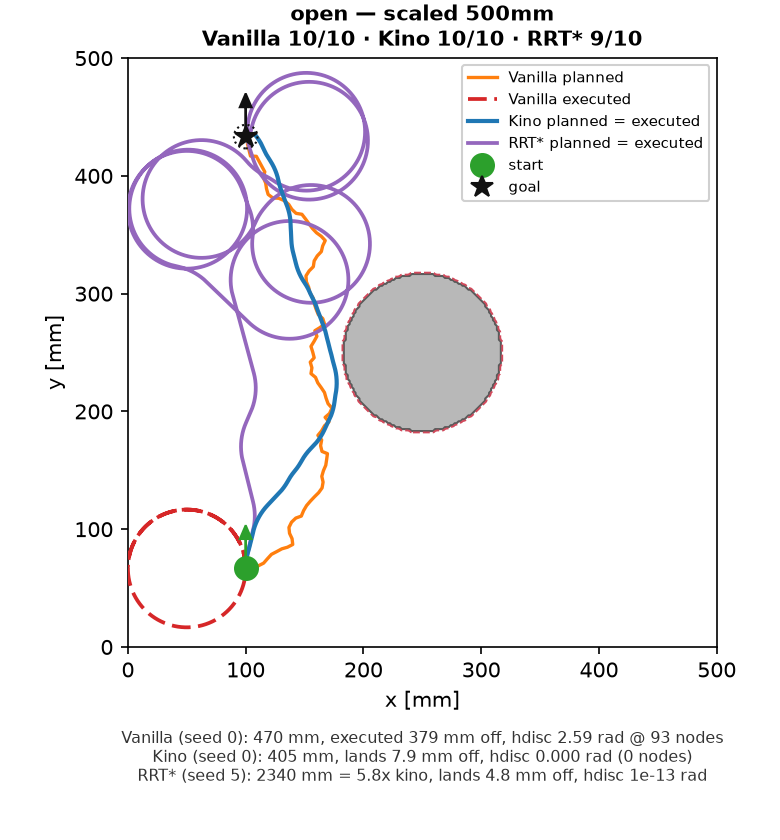
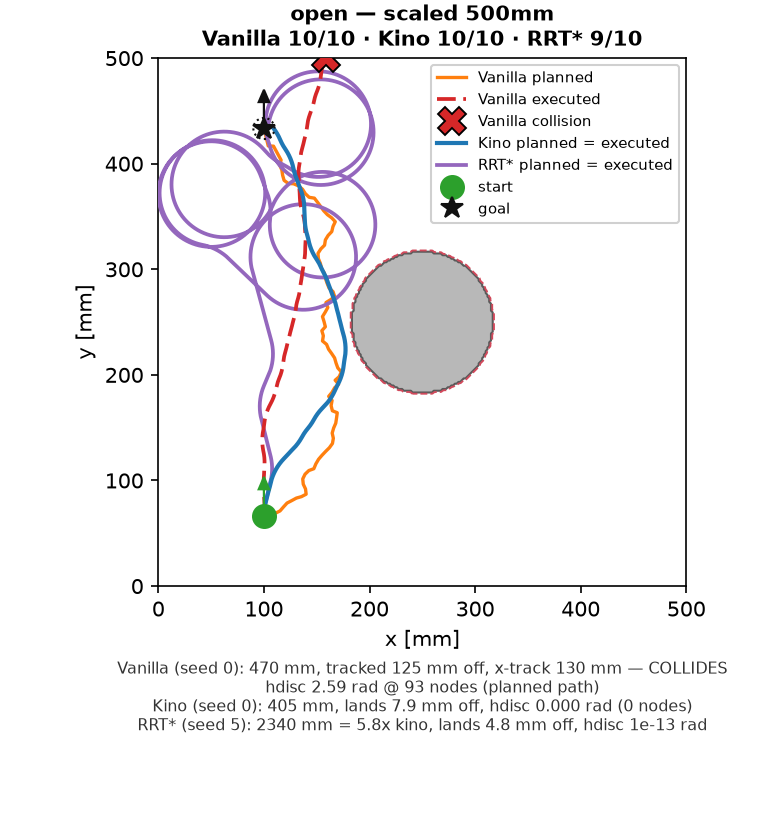
Regenerate all eight benchmark figures + report vanilla tracker metrics
Figure scripts: VanillaRRT's dashed "executed" curve is now the open-loop
TRACKED trajectory (its path followed with feasible curved controls), not
the raw-controls radius-1/kappa circle. The first colliding state is marked
with a bold X and the post-collision tail drawn solid, so tracked_collides
(the headline) is readable at a glance. Kino/RRT* curves are untouched.
Annotations updated to tracked endpoint / max cross-track / collides;
subtitles split across lines to fit. All 8 figures regenerated after the
full benchmark re-run.

Analysis scripts: report the three vanilla tracker metrics in a dedicated
table (endpoint_error_mm is now empty for vanilla); _mean_std drops None so
the empty column no longer crashes the aggregate.

diff --git a/scripts/plot_benchmark_figures.py b/scripts/plot_benchmark_figures.py
@@ -47,6 +47,7 @@ from needlesim.benchmark.harness import (  # noqa: E402
     make_config,
 )
 from needlesim.benchmark.scenarios import SCENARIOS, build_env  # noqa: E402
+from needlesim.benchmark.vanilla_tracker import track_path  # noqa: E402
 from needlesim.models.unicycle_needle import (  # noqa: E402
     NeedleParams,
     State,
@@ -128,10 +129,29 @@ def planned_polyline(result):
 
 def executed_trace(result, scenario, cfg, params):
     """Roll the returned controls through the real model from the start -- where
-    the needle actually goes if you execute this plan."""
+    the needle actually goes if you execute this plan. Used for Kino/RRTStar,
+    whose stored controls ARE model-generated (planned == executed)."""
     steps = _expand_controls(result.controls, cfg.n_steps_per_extend)
     trace = rollout(scenario.start, steps, cfg.step_dt, params)
     return [(s.x, s.y) for s in trace]
+
+
+def vanilla_tracked(result, scenario, cfg, params, env):
+    """VanillaRRT's executed curve is the OPEN-LOOP TRACKED trajectory -- its
+    path read as a reference polyline and followed with feasible curved
+    controls (see benchmark/vanilla_tracker.py) -- NOT its raw stored controls,
+    which just drive a radius-1/kappa circle. Returns the TrackedRun so the
+    figure can also mark where it strays into an obstacle."""
+    return track_path(
+        result.path,
+        scenario.start,
+        scenario.goal,
+        cfg.edge_velocity,
+        cfg.step_dt,
+        env,
+        params,
+        cfg.margin,
+    )
 
 
 # ---------------------------------------------------------------------------
@@ -179,6 +199,39 @@ def _draw_pose(ax, pose: State, color, label, marker):
         length_includes_head=True,
         zorder=6,
     )
+
+
+def _draw_vanilla_executed(ax, tracked):
+    """Draw the tracked (executed) trajectory and, if it collides, mark the
+    first colliding state with a bold X and redraw the post-collision tail as a
+    solid line -- so `tracked_collides` (the headline) is readable at a glance."""
+    ex = [s.x for s in tracked.trace]
+    ey = [s.y for s in tracked.trace]
+    ax.plot(
+        ex,
+        ey,
+        color=C_VAN_EXEC,
+        linewidth=1.8,
+        linestyle=(0, (5, 2)),
+        label="Vanilla executed",
+        zorder=5,
+    )
+    if tracked.collides:
+        ci = tracked.first_collision_index
+        # Post-collision tail solid: the needle is already inside tissue here.
+        ax.plot(ex[ci:], ey[ci:], color=C_VAN_EXEC, linewidth=1.8, zorder=5)
+        ax.plot(
+            ex[ci],
+            ey[ci],
+            marker="X",
+            color=C_VAN_EXEC,
+            markersize=13,
+            markeredgecolor="black",
+            markeredgewidth=0.9,
+            linestyle="none",
+            label="Vanilla collision",
+            zorder=7,
+        )
 
 
 def _draw_tree(ax, result):
@@ -242,23 +295,17 @@ def make_figure(scen_name, grouped):
     v_result, v_cfg, v_params = run(VanillaRRT, scenario, v_seed)
     px, py = zip(*planned_polyline(v_result))
     ax.plot(px, py, color=C_VAN_PLAN, linewidth=1.6, label="Vanilla planned", zorder=4)
-    ex, ey = zip(*executed_trace(v_result, scenario, v_cfg, v_params))
-    ax.plot(
-        ex,
-        ey,
-        color=C_VAN_EXEC,
-        linewidth=1.8,
-        linestyle=(0, (5, 2)),
-        label="Vanilla executed",
-        zorder=5,
-    )
-    v_ep = endpoint_error_mm(v_result, scenario.start, scenario.goal, v_cfg, v_params)
+    v_tracked = vanilla_tracked(v_result, scenario, v_cfg, v_params, env)
+    _draw_vanilla_executed(ax, v_tracked)
     v_hd, _, v_hn = heading_discontinuity(v_result, v_cfg, v_params)
 
     seeds_note = f"seeds: vanilla={v_seed}"
+    collide_note = "COLLIDES" if v_tracked.collides else "no collision"
     subtitle_parts = [
-        f"Vanilla (seed {v_seed}): executed lands {v_ep:.0f} mm off; "
-        f"heading disc max {v_hd:.2f} rad at {v_hn} nodes"
+        f"Vanilla (seed {v_seed}): tracked lands "
+        f"{v_tracked.endpoint_error_mm:.0f} mm off, max cross-track "
+        f"{v_tracked.max_crosstrack_mm:.0f} mm — {collide_note}",
+        f"    heading disc max {v_hd:.2f} rad at {v_hn} nodes (planned path)",
     ]
 
     # --- Kinodynamic: one smooth curve (planned == executed), or a failed tree
@@ -309,7 +356,7 @@ def make_figure(scen_name, grouped):
     # moves, to avoid occluding the goal where it sits top-right (cluttered).
     legend_loc = "upper left" if scen_name == "cluttered" else "upper right"
     _finish(ax, scenario, title, "\n".join(subtitle_parts), legend_loc=legend_loc)
-    fig.tight_layout(rect=(0, 0.04, 1, 1))
+    fig.tight_layout(rect=(0, 0.08, 1, 1))
     out = OUT_DIR / f"benchmark_{scen_name}.png"
     fig.savefig(out, dpi=150)
     plt.close(fig)

diff --git a/scripts/analyze_benchmark.py b/scripts/analyze_benchmark.py
@@ -30,7 +30,10 @@ PLANNER_ORDER = ["VanillaRRT", "KinodynamicRRT"]
 
 
 def _mean_std(values):
-    """(mean, std) over a list; (nan, nan) if empty, std=0 for a single value."""
+    """(mean, std) over a list; (nan, nan) if empty, std=0 for a single value.
+    None entries are dropped (e.g. VanillaRRT's now-empty endpoint_error_mm, or
+    the tracked_* columns on non-vanilla rows)."""
+    values = [v for v in values if v is not None]
     if not values:
         return math.nan, math.nan
     n = len(values)
@@ -98,6 +101,64 @@ def report_hand_designed(rows):
             )
 
 
+def _collide_rate(runs):
+    """Fraction of successful VanillaRRT runs whose tracked trajectory collides,
+    as 'k/n'. Empty runs -> '--'."""
+    ok = [r for r in runs if _success(r)]
+    if not ok:
+        return "--"
+    n_col = sum(1 for r in ok if r["tracked_collides"] == "True")
+    return f"{n_col}/{len(ok)}"
+
+
+def report_vanilla_tracked(rows):
+    """VanillaRRT's execution quality under the open-loop tracker (its
+    endpoint_error_mm is intentionally empty -- see vanilla_tracker.py). The
+    three tracker metrics: where the tracked path lands, how far it strays from
+    the planned polyline, and -- the headline -- how often it collides."""
+    print()
+    print("=" * 78)
+    print("VANILLA TRACKED EXECUTION (open-loop segment following; vanilla only)")
+    print("=" * 78)
+    hand = [
+        r for r in rows if r["scenario_kind"] == "hand" and r["planner"] == "VanillaRRT"
+    ]
+    rand = [
+        r
+        for r in rows
+        if r["scenario_kind"] == "random" and r["planner"] == "VanillaRRT"
+    ]
+    grouped = defaultdict(list)
+    for r in hand:
+        grouped[r["scenario_name"]].append(r)
+
+    header = (
+        f"{'scenario':<22} {'succ':>6} {'tracked_endpt_mm':>18} "
+        f"{'max_xtrack_mm':>16} {'collides':>10}"
+    )
+    print("\n" + header)
+    print("-" * len(header))
+    for scen in HAND_DESIGNED:
+        runs = grouped.get(scen.name, [])
+        ok = [r for r in runs if _success(r)]
+        rate = f"{len(ok)}/{len(runs)}"
+        ep = _mean_std([_to_float(r, "tracked_endpoint_error_mm") for r in ok])
+        ct = _mean_std([_to_float(r, "tracked_max_crosstrack_mm") for r in ok])
+        print(
+            f"{scen.name:<22} {rate:>6} {_fnum(*ep, width=14, prec=1)} "
+            f"{_fnum(*ct, width=12, prec=1)} {_collide_rate(runs):>10}"
+        )
+
+    ok = [r for r in rand if _success(r)]
+    ep = _mean_std([_to_float(r, "tracked_endpoint_error_mm") for r in ok])
+    ct = _mean_std([_to_float(r, "tracked_max_crosstrack_mm") for r in ok])
+    print(
+        f"{'random (aggregate)':<22} {f'{len(ok)}/{len(rand)}':>6} "
+        f"{_fnum(*ep, width=14, prec=1)} {_fnum(*ct, width=12, prec=1)} "
+        f"{_collide_rate(rand):>10}"
+    )
+
+
 def report_random(rows):
     print()
     print("=" * 78)
@@ -160,8 +221,13 @@ def main():
     rows = load_rows(csv_path)
     print(f"Read {len(rows)} raw records from {csv_path}\n")
     report_hand_designed(rows)
+    report_vanilla_tracked(rows)
     report_random(rows)
     print("\n(cost/time/iters/endpt/hdisc are mean +- std over SUCCESSFUL runs)")
+    print(
+        "(endpt_mm is empty for VanillaRRT by design -- see the VANILLA TRACKED "
+        "EXECUTION table for its three tracker metrics)"
+    )
 
 
 if __name__ == "__main__":

diff --git a/scripts/plot_scaled_benchmark_figures.py b/scripts/plot_scaled_benchmark_figures.py
@@ -57,13 +57,14 @@ from plot_benchmark_figures import (  # noqa: E402
     C_OBSTACLE,
     C_START,
     C_SURFACE,
-    C_VAN_EXEC,
     C_VAN_PLAN,
     _by_scen_planner,
+    _draw_vanilla_executed,
     executed_trace,
     median_seed,
     planned_polyline,
     success_rate,
+    vanilla_tracked,
 )
 
 from needlesim.benchmark.harness import (  # noqa: E402
@@ -254,24 +255,20 @@ def make_figure(scen_name, grouped):
     v_result, v_cfg, v_params = run_rrt(VanillaRRT, scenario, v_seed)
     px, py = zip(*planned_polyline(v_result))
     ax.plot(px, py, color=C_VAN_PLAN, linewidth=1.6, label="Vanilla planned", zorder=4)
-    ex, ey = zip(*executed_trace(v_result, scenario, v_cfg, v_params))
-    ax.plot(
-        ex,
-        ey,
-        color=C_VAN_EXEC,
-        linewidth=1.8,
-        linestyle=(0, (5, 2)),
-        label="Vanilla executed",
-        zorder=5,
-    )
-    v_ep = endpoint_error_mm(v_result, scenario.start, scenario.goal, v_cfg, v_params)
+    # Executed curve = open-loop TRACKED trajectory (vanilla_tracker.py), the
+    # same treatment as the primary figures -- not the raw-controls circle.
+    v_tracked = vanilla_tracked(v_result, scenario, v_cfg, v_params, env)
+    _draw_vanilla_executed(ax, v_tracked)
     v_cost = path_cost_mm(v_result, v_cfg)
     v_hd, _, v_hn = heading_discontinuity(v_result, v_cfg, v_params)
     seeds_note = f"seeds: vanilla={v_seed}"
+    collide_note = "COLLIDES" if v_tracked.collides else "no collision"
     subtitle_parts.append(
-        f"Vanilla (seed {v_seed}): {v_cost:.0f} mm, executed {v_ep:.0f} mm off, "
-        f"hdisc {v_hd:.2f} rad @ {v_hn} nodes"
+        f"Vanilla (seed {v_seed}): {v_cost:.0f} mm, tracked "
+        f"{v_tracked.endpoint_error_mm:.0f} mm off, x-track "
+        f"{v_tracked.max_crosstrack_mm:.0f} mm — {collide_note}"
     )
+    subtitle_parts.append(f"    hdisc {v_hd:.2f} rad @ {v_hn} nodes (planned path)")
 
     # --- Kinodynamic: one smooth curve (planned == executed). 10/10 at scale --
     k_seed = median_seed(grouped, scen_name, "KinodynamicRRT")
@@ -338,7 +335,7 @@ def make_figure(scen_name, grouped):
     )
     legend_loc = "upper left" if scen_name == "cluttered" else "upper right"
     _finish(ax, scenario, title, "\n".join(subtitle_parts), legend_loc=legend_loc)
-    fig.tight_layout(rect=(0, 0.06, 1, 1))
+    fig.tight_layout(rect=(0, 0.11, 1, 1))
     out = OUT_DIR / f"benchmark_scaled_{scen_name}.png"
     fig.savefig(out, dpi=150)
     plt.close(fig)

diff --git a/scripts/analyze_scaled_benchmark.py b/scripts/analyze_scaled_benchmark.py
@@ -62,6 +62,40 @@ def report_per_scenario(rows):
             )
 
 
+def report_vanilla_tracked(rows):
+    """VanillaRRT's tracked-execution metrics at scale (endpoint_error_mm is
+    empty for vanilla by design -- see vanilla_tracker.py). Same three tracker
+    metrics as the primary analysis: tracked endpoint, max cross-track, collide
+    rate. At 500mm the point-robot fiction is starker still."""
+    print()
+    print("=" * 92)
+    print("VANILLA TRACKED EXECUTION (open-loop segment following; vanilla only)")
+    print("=" * 92)
+    grouped = defaultdict(list)
+    for r in rows:
+        if r["planner"] == "VanillaRRT":
+            grouped[r["scenario_name"]].append(r)
+
+    header = (
+        f"{'scenario':<22} {'succ':>6} {'tracked_endpt_mm':>18} "
+        f"{'max_xtrack_mm':>16} {'collides':>10}"
+    )
+    print("\n" + header)
+    print("-" * len(header))
+    for scen in SCALED_HAND_DESIGNED:
+        runs = grouped.get(scen.name, [])
+        ok = [r for r in runs if _success(r)]
+        rate = f"{len(ok)}/{len(runs)}"
+        ep = _mean_std([_to_float(r, "tracked_endpoint_error_mm") for r in ok])
+        ct = _mean_std([_to_float(r, "tracked_max_crosstrack_mm") for r in ok])
+        n_col = sum(1 for r in ok if r["tracked_collides"] == "True")
+        col = f"{n_col}/{len(ok)}" if ok else "--"
+        print(
+            f"{scen.name:<22} {rate:>6} {_fnum(*ep, width=14, prec=1)} "
+            f"{_fnum(*ct, width=12, prec=1)} {col:>10}"
+        )
+
+
 def report_cost_comparison(rows):
     """RRT* vs Kinodynamic path cost on scenarios where BOTH succeed. Paired by
     scenario over the seed means -- the headline number of the experiment."""
@@ -136,6 +170,7 @@ def main():
     rows = load_rows(csv_path)
     print(f"Read {len(rows)} raw records from {csv_path}\n")
     report_per_scenario(rows)
+    report_vanilla_tracked(rows)
     report_cost_comparison(rows)
     report_target_behind(rows)
     print("\n(cost/time/iters/endpt/hdisc are mean +- std over SUCCESSFUL runs)")
